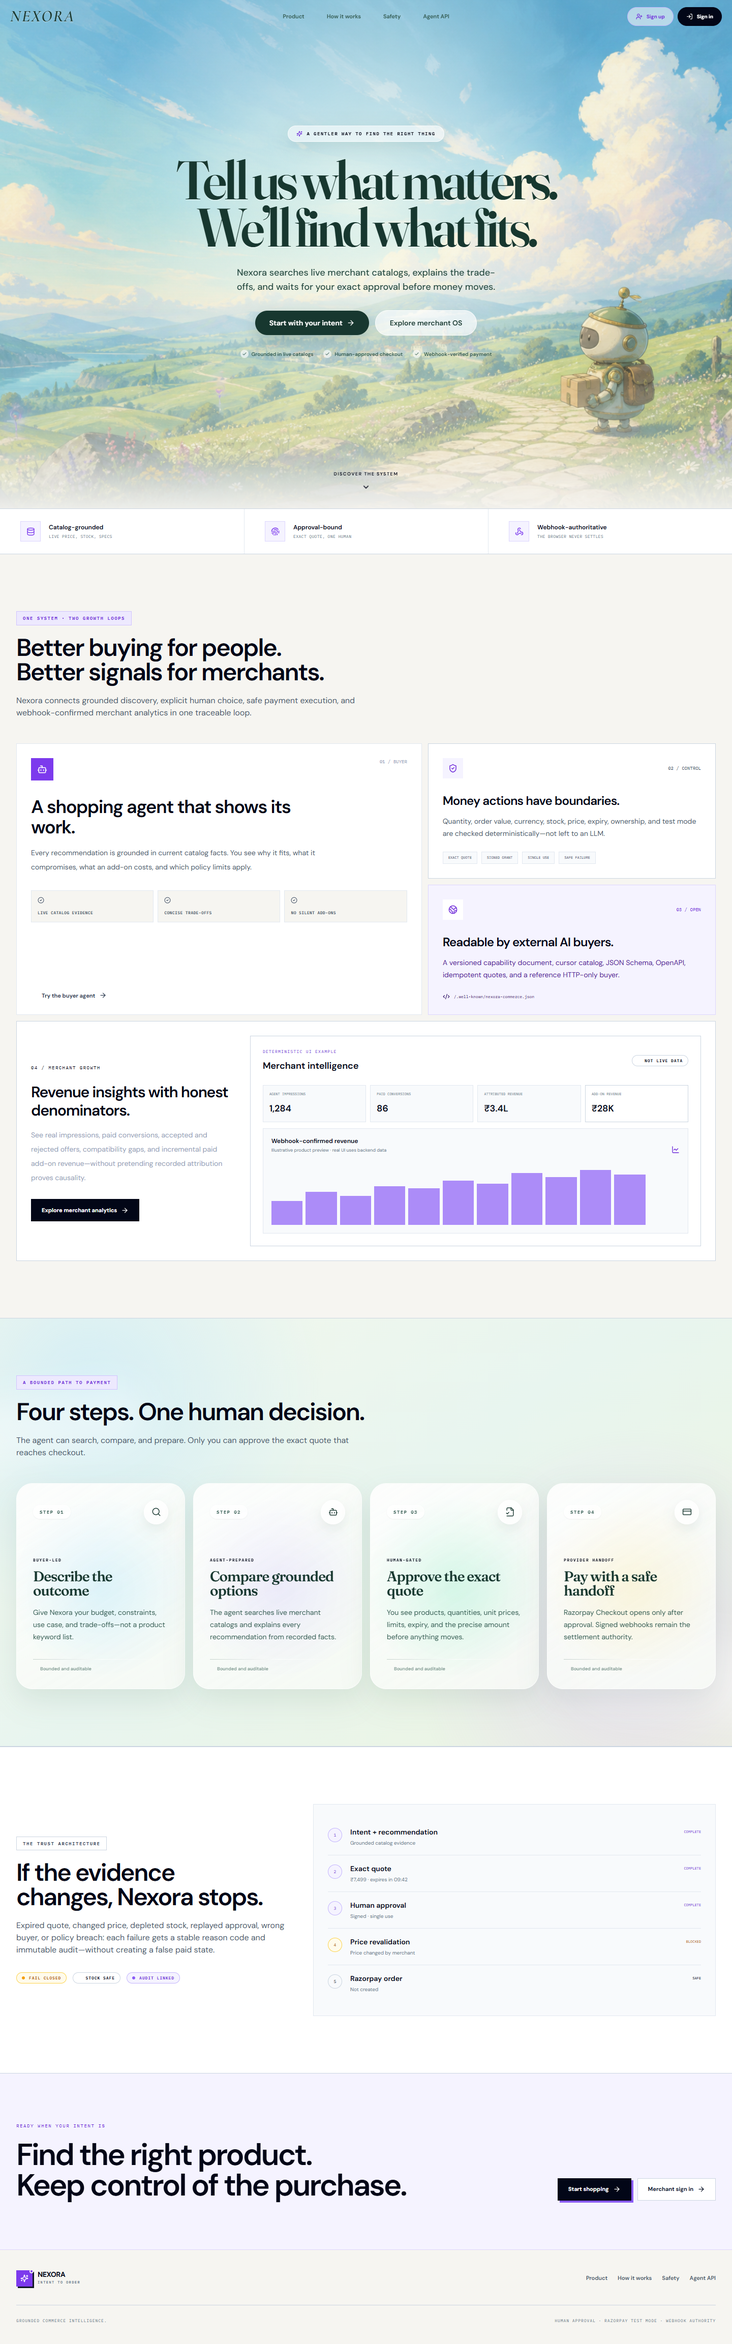
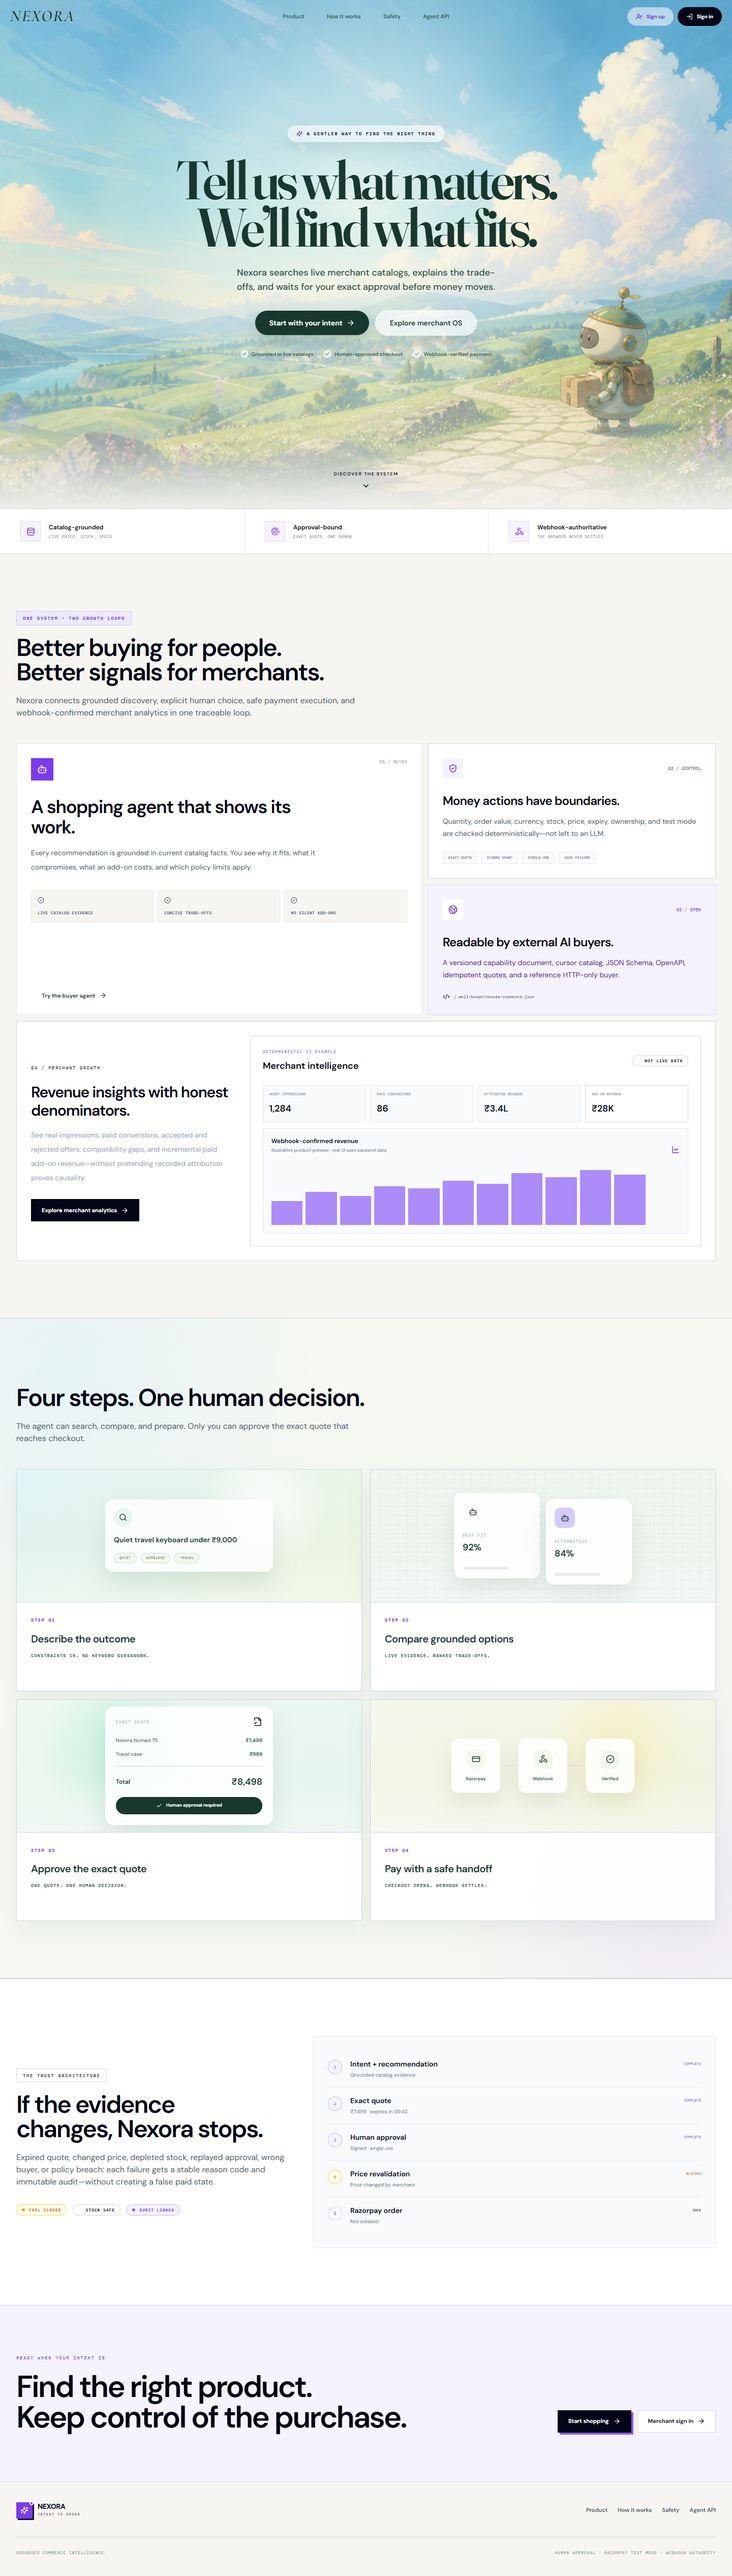
feat: refine interactive journey cards

diff --git a/frontend/src/pages/LandingPage.jsx b/frontend/src/pages/LandingPage.jsx
@@ -27,40 +27,61 @@ const trustPoints = [
 ]
 
 const steps = [
-  { number: '01', icon: Search, title: 'Describe the outcome', authority: 'Buyer-led', accent: 'rgba(125, 211, 252, .55)', copy: 'Give Nexora your budget, constraints, use case, and trade-offs—not a product keyword list.' },
-  { number: '02', icon: Bot, title: 'Compare grounded options', authority: 'Agent-prepared', accent: 'rgba(196, 181, 253, .6)', copy: 'The agent searches live merchant catalogs and explains every recommendation from recorded facts.' },
-  { number: '03', icon: FileCheck2, title: 'Approve the exact quote', authority: 'Human-gated', accent: 'rgba(110, 231, 183, .65)', copy: 'You see products, quantities, unit prices, limits, expiry, and the precise amount before anything moves.' },
-  { number: '04', icon: CreditCard, title: 'Pay with a safe handoff', authority: 'Provider handoff', accent: 'rgba(253, 230, 138, .62)', copy: 'Razorpay Checkout opens only after approval. Signed webhooks remain the settlement authority.' },
+  { number: '01', title: 'Describe the outcome', signal: 'Constraints in. No keyword guesswork.', copy: 'Give Nexora your budget, required specs, use case, and acceptable trade-offs. The agent turns the outcome into a bounded search plan.' },
+  { number: '02', title: 'Compare grounded options', signal: 'Live evidence. Ranked trade-offs.', copy: 'Nexora searches current merchant catalogs, verifies price and stock, then explains why each option fits—or fails—your request.' },
+  { number: '03', title: 'Approve the exact quote', signal: 'One quote. One human decision.', copy: 'Review products, quantities, unit prices, policy limits, expiry, and the precise payable total before any payment action is allowed.' },
+  { number: '04', title: 'Pay with a safe handoff', signal: 'Checkout opens. Webhook settles.', copy: 'Razorpay Checkout opens only after approval. Signed provider webhooks—not the browser—remain the authority for payment status.' },
 ]
 
-function moveSpotlight(event) {
-  const card = event.currentTarget
-  const bounds = card.getBoundingClientRect()
-  card.style.setProperty('--spotlight-x', `${event.clientX - bounds.left}px`)
-  card.style.setProperty('--spotlight-y', `${event.clientY - bounds.top}px`)
+function JourneyIllustration({ number }) {
+  if (number === '01') return (
+    <div className="journey-illustration journey-illustration-sky" aria-hidden="true">
+      <div className="journey-float w-[82%] max-w-[330px] rounded-2xl border border-white/90 bg-white/80 p-4 shadow-[0_20px_45px_rgba(46,91,78,.14)] backdrop-blur-md">
+        <div className="flex items-center gap-3"><span className="grid size-9 shrink-0 place-items-center rounded-full bg-[#e8f5ef] text-[#17372f]"><Search size={16} /></span><div className="h-2.5 flex-1 rounded-full bg-[#31594f]/12"><div className="h-full w-[72%] rounded-full bg-[#31594f]/28" /></div></div>
+        <p className="mt-4 text-sm font-semibold text-[#17372f]">Quiet travel keyboard under ₹9,000</p>
+        <div className="mt-4 flex flex-wrap gap-2">{['Quiet', 'Wireless', 'Travel'].map((item) => <span key={item} className="rounded-full border border-emerald-900/10 bg-[#f4f8ec] px-2.5 py-1 font-mono text-[7px] uppercase tracking-wider text-[#31594f]">{item}</span>)}</div>
+      </div>
+    </div>
+  )
+
+  if (number === '02') return (
+    <div className="journey-illustration journey-illustration-grid" aria-hidden="true">
+      <div className="flex w-[86%] max-w-[350px] items-end justify-center gap-3">
+        {[['92%', 'Best fit', 'bg-emerald-300/70'], ['84%', 'Alternative', 'bg-violet-300/70']].map(([score, label, color], index) => <div key={label} className={`journey-option-card w-1/2 rounded-2xl border border-white/90 bg-white/85 p-4 shadow-[0_18px_40px_rgba(46,91,78,.12)] ${index ? 'translate-y-3' : ''}`}><div className={`grid size-10 place-items-center rounded-xl ${color}`}><Bot size={17} className="text-[#17372f]" /></div><p className="mt-5 font-mono text-[8px] uppercase tracking-[0.14em] text-[#31594f]/65">{label}</p><p className="mt-1 text-lg font-semibold text-[#17372f]">{score}</p><div className="mt-3 space-y-1.5"><span className="block h-1.5 w-full rounded-full bg-[#31594f]/13" /><span className="block h-1.5 w-2/3 rounded-full bg-[#31594f]/10" /></div></div>)}
+      </div>
+    </div>
+  )
+
+  if (number === '03') return (
+    <div className="journey-illustration journey-illustration-mint" aria-hidden="true">
+      <div className="journey-quote-card w-[82%] max-w-[330px] rounded-2xl border border-white/90 bg-white/85 p-5 shadow-[0_20px_45px_rgba(46,91,78,.14)]">
+        <div className="flex items-center justify-between"><span className="font-mono text-[8px] uppercase tracking-[0.16em] text-[#31594f]/65">Exact quote</span><FileCheck2 size={18} className="text-emerald-700" /></div>
+        <div className="mt-5 space-y-3 text-[10px] text-[#31594f]"><div className="flex justify-between"><span>Nexora Nomad 75</span><strong>₹7,499</strong></div><div className="flex justify-between"><span>Travel case</span><strong>₹999</strong></div></div>
+        <div className="mt-4 flex items-center justify-between border-t border-emerald-950/10 pt-4"><span className="text-xs font-semibold text-[#17372f]">Total</span><span className="text-lg font-semibold text-[#17372f]">₹8,498</span></div>
+        <div className="mt-4 flex items-center justify-center gap-2 rounded-full bg-[#17372f] px-4 py-2.5 text-[9px] font-semibold text-white"><Check size={12} /> Human approval required</div>
+      </div>
+    </div>
+  )
+
+  return (
+    <div className="journey-illustration journey-illustration-gold" aria-hidden="true">
+      <div className="flex w-[88%] max-w-[360px] items-center justify-between gap-2">
+        {[{ icon: CreditCard, label: 'Razorpay' }, { icon: Webhook, label: 'Webhook' }, { icon: CheckCircle2, label: 'Verified' }].map(({ icon: Icon, label }, index) => <div key={label} className="contents"><div className={`journey-handoff-node journey-handoff-node-${index + 1} relative z-10 flex min-w-0 flex-1 flex-col items-center rounded-2xl border border-white/90 bg-white/85 px-2 py-5 shadow-[0_18px_40px_rgba(81,71,38,.11)]`}><span className="grid size-10 place-items-center rounded-full bg-[#f4f8ec] text-[#17372f]"><Icon size={17} /></span><span className="mt-3 text-[9px] font-semibold text-[#31594f]">{label}</span></div>{index < 2 && <div className="journey-flow-line relative h-px w-5 shrink-0 bg-[#31594f]/20"><span className="absolute -top-1 left-0 size-2 rounded-full bg-emerald-500" /></div>}</div>)}
+      </div>
+    </div>
+  )
 }
 
-function SpotlightStepCard({ step }) {
-  const { number, icon: Icon, title, authority, accent, copy } = step
+function JourneyStepCard({ step }) {
   return (
-    <article
-      className="spotlight-step-card group relative isolate min-h-[330px] overflow-hidden rounded-[2rem] border border-white/80 p-6 shadow-[0_22px_55px_rgba(42,81,68,.11)] sm:p-8"
-      style={{ '--spotlight-color': accent }}
-      onPointerMove={moveSpotlight}
-    >
-      <div className="relative z-10 flex h-full flex-col">
-        <div className="flex items-center justify-between gap-4">
-          <span className="rounded-full border border-white/90 bg-white/65 px-3 py-1.5 font-mono text-[9px] font-semibold tracking-[0.16em] text-[#31594f] shadow-sm backdrop-blur-md">STEP {number}</span>
-          <span className="grid size-12 place-items-center rounded-full border border-white/90 bg-white/70 text-[#17372f] shadow-[0_10px_25px_rgba(42,81,68,.1)] backdrop-blur-md transition duration-300 group-hover:-translate-y-1 group-hover:scale-105"><Icon size={19} strokeWidth={1.8} /></span>
-        </div>
-        <div className="mt-14 sm:mt-16">
-          <p className="font-mono text-[8px] font-semibold uppercase tracking-[0.18em] text-emerald-800/70">{authority}</p>
-          <h3 className="storybook-title mt-3 text-[1.75rem] font-semibold leading-[1.02] tracking-[-0.035em] text-[#17372f]">{title}</h3>
-          <p className="mt-4 text-sm leading-6 text-[#31594f]">{copy}</p>
-        </div>
-        <div className="mt-auto pt-8" aria-hidden="true">
-          <div className="h-px bg-gradient-to-r from-[#31594f]/25 via-white/80 to-transparent" />
-          <div className="mt-3 flex items-center gap-2 text-[9px] font-semibold text-[#31594f]/65"><span className="size-1.5 rounded-full bg-emerald-500/75" /> Bounded and auditable</div>
+    <article className={`journey-step-card journey-step-card-${step.number} group overflow-hidden border border-emerald-950/10 bg-white/75 shadow-[0_18px_45px_rgba(42,81,68,.07)] backdrop-blur-sm`} tabIndex={0} aria-label={`${step.title}. Focus or hover to reveal details.`}>
+      <JourneyIllustration number={step.number} />
+      <div className="journey-step-copy border-t border-emerald-950/10 bg-white/85 p-6 sm:p-7">
+        <div className="flex items-center gap-3"><span className="font-mono text-[9px] font-semibold tracking-[0.16em] text-violet-700">STEP {step.number}</span><span className="h-px flex-1 bg-emerald-950/10" /></div>
+        <h3 className="mt-4 text-xl font-semibold tracking-[-0.025em] text-[#17372f]">{step.title}</h3>
+        <div className="journey-step-reveal mt-3">
+          <p className="journey-step-signal font-mono text-[9px] font-semibold uppercase tracking-[0.1em] text-[#31594f]">{step.signal}</p>
+          <p className="journey-step-detail text-sm leading-6 text-[#31594f]">{step.copy}</p>
         </div>
       </div>
     </article>
@@ -101,9 +122,6 @@ export default function LandingPage() {
 
         <div className="mx-auto flex min-h-svh max-w-[1440px] flex-col items-center justify-center pb-32 pt-24 text-center sm:pb-36 sm:pt-24">
           <div className="storybook-copy relative z-10 flex max-w-4xl flex-col items-center">
-            <div className="inline-flex items-center gap-2 rounded-full border border-white/70 bg-white/55 px-4 py-2 font-mono text-[9px] font-semibold uppercase tracking-[0.16em] text-emerald-950 shadow-[0_10px_35px_rgba(30,64,52,.12)] backdrop-blur-md">
-              <Sparkles size={12} className="text-violet-700" /> A gentler way to find the right thing
-            </div>
             <h1 className="storybook-title mt-7 max-w-[13ch] text-balance text-[clamp(3.35rem,7.4vw,7.3rem)] font-semibold leading-[0.88] tracking-[-0.055em] text-[#17372f] drop-shadow-[0_2px_0_rgba(255,255,255,.35)]">
               Tell us what matters. We’ll find what fits.
             </h1>
@@ -155,13 +173,11 @@ export default function LandingPage() {
         </div>
       </section>
 
-      <section id="how-it-works" className="spotlight-steps-section relative isolate overflow-hidden border-y border-emerald-950/10 px-4 py-20 sm:px-6 sm:py-28 lg:px-8">
-        <div className="spotlight-steps-cloud spotlight-steps-cloud-left" aria-hidden="true" />
-        <div className="spotlight-steps-cloud spotlight-steps-cloud-right" aria-hidden="true" />
+      <section id="how-it-works" className="journey-steps-section relative isolate overflow-hidden border-y border-emerald-950/10 px-4 py-20 sm:px-6 sm:py-28 lg:px-8">
         <div className="relative z-10 mx-auto max-w-[1440px]">
-          <SectionHeading eyebrow="A bounded path to payment" title="Four steps. One human decision." description="The agent can search, compare, and prepare. Only you can approve the exact quote that reaches checkout." />
-          <div className="relative mt-12 grid gap-4 sm:grid-cols-2 lg:grid-cols-4">
-            {steps.map((step) => <SpotlightStepCard key={step.number} step={step} />)}
+          <SectionHeading title="Four steps. One human decision." description="The agent can search, compare, and prepare. Only you can approve the exact quote that reaches checkout." />
+          <div className="relative mt-12 grid gap-4 md:grid-cols-2">
+            {steps.map((step) => <JourneyStepCard key={step.number} step={step} />)}
           </div>
         </div>
       </section>

diff --git a/frontend/src/index.css b/frontend/src/index.css
@@ -94,77 +94,179 @@
   animation: storybook-bob 1.8s ease-in-out infinite;
 }
 
-.spotlight-steps-section {
+.journey-steps-section {
   background:
-    radial-gradient(circle at 12% 16%, rgba(186, 230, 253, .52), transparent 32%),
-    radial-gradient(circle at 87% 78%, rgba(216, 180, 254, .34), transparent 31%),
-    linear-gradient(145deg, #f4f8ec 0%, #e8f5ef 48%, #edf4df 100%);
+    radial-gradient(circle at 9% 8%, rgba(186, 230, 253, .28), transparent 28%),
+    radial-gradient(circle at 92% 88%, rgba(216, 180, 254, .2), transparent 26%),
+    #f6f8f2;
 }
 
-.spotlight-steps-cloud {
+.journey-step-card {
+  transition: border-color .3s ease, box-shadow .3s ease, background-color .3s ease;
+}
+
+.journey-step-card:hover,
+.journey-step-card:focus {
+  border-color: rgba(23, 55, 47, .2);
+  box-shadow: 0 24px 60px rgba(42, 81, 68, .12);
+  outline: none;
+}
+
+.journey-step-card:focus-visible {
+  box-shadow: 0 0 0 3px rgba(124, 58, 237, .25), 0 24px 60px rgba(42, 81, 68, .12);
+}
+
+.journey-step-copy {
+  min-height: 170px;
+}
+
+.journey-step-reveal {
+  position: relative;
+  min-height: 48px;
+  overflow: hidden;
+}
+
+.journey-step-card:focus .journey-step-reveal {
+  min-height: 72px;
+}
+
+.journey-step-signal,
+.journey-step-detail,
+.journey-step-hint {
+  transition: opacity .32s ease, transform .4s cubic-bezier(.2, .8, .2, 1);
+}
+
+.journey-step-signal,
+.journey-step-detail {
   position: absolute;
-  border-radius: 999px;
-  background: rgba(255, 255, 255, .42);
-  filter: blur(36px);
-  pointer-events: none;
+  inset: 0;
 }
 
-.spotlight-steps-cloud-left {
-  width: 26rem;
-  height: 8rem;
-  left: -8rem;
-  top: 18%;
-  transform: rotate(-9deg);
+.journey-step-detail {
+  opacity: 0;
 }
 
-.spotlight-steps-cloud-right {
-  width: 30rem;
-  height: 9rem;
-  right: -10rem;
-  bottom: 8%;
-  transform: rotate(8deg);
+.journey-step-card-01 .journey-step-detail { transform: translateY(20px); }
+.journey-step-card-02 .journey-step-detail { transform: translateX(-24px); }
+.journey-step-card-03 .journey-step-detail { transform: scale(.88); transform-origin: left top; }
+.journey-step-card-04 .journey-step-detail { transform: translateY(-20px); }
+
+.journey-step-card:hover .journey-step-signal,
+.journey-step-card:focus .journey-step-signal {
+  opacity: 0;
+  transform: translateY(-10px);
 }
 
-.spotlight-step-card {
-  --spotlight-x: 50%;
-  --spotlight-y: 50%;
-  --spotlight-color: rgba(196, 181, 253, .58);
-  background:
-    linear-gradient(150deg, rgba(255, 255, 255, .76), rgba(255, 255, 255, .42)),
-    rgba(241, 248, 239, .66);
-  backdrop-filter: blur(18px);
-  transition: transform .35s cubic-bezier(.2, .8, .2, 1), box-shadow .35s ease, border-color .35s ease;
+.journey-step-card:hover .journey-step-detail,
+.journey-step-card:focus .journey-step-detail {
+  opacity: 1;
+  transform: none;
 }
 
-.spotlight-step-card::before {
+.journey-step-card:hover .journey-step-hint,
+.journey-step-card:focus .journey-step-hint {
+  opacity: 0;
+  transform: translateY(5px);
+}
+
+.journey-illustration {
+  position: relative;
+  display: flex;
+  min-height: 260px;
+  align-items: center;
+  justify-content: center;
+  overflow: hidden;
+}
+
+.journey-illustration::after {
   content: '';
   position: absolute;
-  inset: -1px;
+  inset: 0;
   z-index: 0;
-  background: radial-gradient(260px circle at var(--spotlight-x) var(--spotlight-y), var(--spotlight-color), transparent 70%);
-  opacity: .42;
-  transition: opacity .3s ease;
+  background: linear-gradient(180deg, rgba(255, 255, 255, .12), transparent 58%, rgba(255, 255, 255, .32));
   pointer-events: none;
 }
 
-.spotlight-step-card::after {
-  content: '';
-  position: absolute;
-  inset: 1px;
-  z-index: 0;
-  border-radius: calc(2rem - 1px);
-  background: linear-gradient(145deg, rgba(255, 255, 255, .42), transparent 58%);
-  pointer-events: none;
+.journey-illustration > * {
+  position: relative;
+  z-index: 1;
 }
 
-.spotlight-step-card:hover {
-  transform: translateY(-7px);
-  border-color: rgba(255, 255, 255, .98);
-  box-shadow: 0 30px 70px rgba(42, 81, 68, .17);
+.journey-illustration-sky {
+  background:
+    radial-gradient(circle at 72% 28%, rgba(255, 255, 255, .9), transparent 24%),
+    linear-gradient(145deg, #dff3f5, #edf5dc);
 }
 
-.spotlight-step-card:hover::before {
-  opacity: .95;
+.journey-illustration-grid {
+  background-color: #eef5ef;
+  background-image:
+    linear-gradient(rgba(49, 89, 79, .055) 1px, transparent 1px),
+    linear-gradient(90deg, rgba(49, 89, 79, .055) 1px, transparent 1px);
+  background-size: 18px 18px;
+}
+
+.journey-illustration-mint {
+  background:
+    radial-gradient(circle at 30% 34%, rgba(110, 231, 183, .3), transparent 32%),
+    linear-gradient(145deg, #edf8ef, #e4f4ee);
+}
+
+.journey-illustration-gold {
+  background:
+    radial-gradient(circle at 72% 34%, rgba(253, 230, 138, .38), transparent 30%),
+    linear-gradient(145deg, #f4f7e9, #eef4df);
+}
+
+.journey-float,
+.journey-option-card,
+.journey-quote-card,
+.journey-handoff-node {
+  transition: transform .55s cubic-bezier(.2, .8, .2, 1), box-shadow .55s ease;
+}
+
+.journey-step-card-01:hover .journey-float,
+.journey-step-card-01:focus .journey-float {
+  transform: translateY(-10px) rotate(-1.2deg) scale(1.02);
+}
+
+.journey-step-card-02:hover .journey-option-card:first-child,
+.journey-step-card-02:focus .journey-option-card:first-child {
+  transform: translateY(-8px) rotate(-3deg);
+}
+
+.journey-step-card-02:hover .journey-option-card:last-child,
+.journey-step-card-02:focus .journey-option-card:last-child {
+  transform: translateY(4px) rotate(3deg);
+}
+
+.journey-step-card-03:hover .journey-quote-card,
+.journey-step-card-03:focus .journey-quote-card {
+  transform: scale(1.035);
+  box-shadow: 0 28px 58px rgba(46, 91, 78, .19);
+}
+
+.journey-step-card-04:hover .journey-handoff-node-1,
+.journey-step-card-04:focus .journey-handoff-node-1,
+.journey-step-card-04:hover .journey-handoff-node-3,
+.journey-step-card-04:focus .journey-handoff-node-3 {
+  transform: translateY(-6px);
+}
+
+.journey-step-card-04:hover .journey-handoff-node-2,
+.journey-step-card-04:focus .journey-handoff-node-2 {
+  transform: translateY(-13px);
+}
+
+.journey-step-card-04:hover .journey-flow-line span,
+.journey-step-card-04:focus .journey-flow-line span {
+  animation: journey-flow 1.2s ease-in-out infinite;
+}
+
+@keyframes journey-flow {
+  0% { left: 0; opacity: 0; }
+  25%, 70% { opacity: 1; }
+  100% { left: calc(100% - .5rem); opacity: 0; }
 }
 
 @keyframes storybook-arrive {
@@ -202,8 +304,15 @@
   .storybook-cloud,
   .storybook-scroll-cue { animation: none; }
 
-  .spotlight-step-card { transition: none; }
-  .spotlight-step-card:hover { transform: none; }
+  .journey-step-card,
+  .journey-step-signal,
+  .journey-step-detail,
+  .journey-step-hint,
+  .journey-float,
+  .journey-option-card,
+  .journey-quote-card,
+  .journey-handoff-node { transition: none; }
+  .journey-flow-line span { animation: none !important; }
 }
 
 .app-grid {

diff --git a/docs/UI.md b/docs/UI.md
@@ -10,7 +10,7 @@ Nexora adapts the visual grammar to the existing Vite/React application rather t
 
 - The public hero combines the hierarchy of Cypon Analytics with the commerce framing of [Commerce Hero](https://21st.dev/@bankkroll/components/commerce-hero). Nexora's implementation is original because that component lists an unknown license and its registry requires an account API key.
 - The live decision trace follows the state-card pattern described by the MIT-licensed [Tool Invocation](https://21st.dev/@Alwurts/components/tool-invocation): clear working/success/blocked states, concise arguments/results, and no hidden chain-of-thought.
-- The bounded purchase sequence uses an original light-theme adaptation of Hossain Jahed's featured [Spotlight Card](https://21st.dev/@easemize/components/spotlight-card): a cursor-positioned radial highlight, rounded glass surface, and restrained lift. The published license is unspecified, so no registry source is copied; Nexora implements the interaction independently with CSS variables and existing React pointer events.
+- The bounded purchase sequence adapts the information hierarchy of the first illustrated cards in the official [Next.js homepage “What's in Next.js?” section](https://nextjs.org/): a large explanatory visual above a restrained, square-cornered footer. Each card starts with one precise operational signal, then reveals its detailed explanation and a step-specific animation on hover, keyboard focus, or touch. Nexora's four diagrams, content, watercolor palette, and implementation are original and use no Next.js site assets or source.
 - Merchant metrics adapt the compact visual hierarchy seen in [Stats Cards](https://21st.dev/@beratberkayg/components/stats-cards), with all active-dashboard values supplied by the backend. The landing-page chart is explicitly labelled illustrative.
 - Buttons, badges, bento cards, navigation, AI working states, CTAs, and the footer share one local primitive system in `frontend/src/components/ui/Primitives.jsx`.
 - Buyer onboarding adapts the tabbed-card hierarchy from the [21st.dev login/signup collection](https://21st.dev/community/components/s/login-signup): sign-in and account creation remain distinct states within one responsive, accessible surface.
